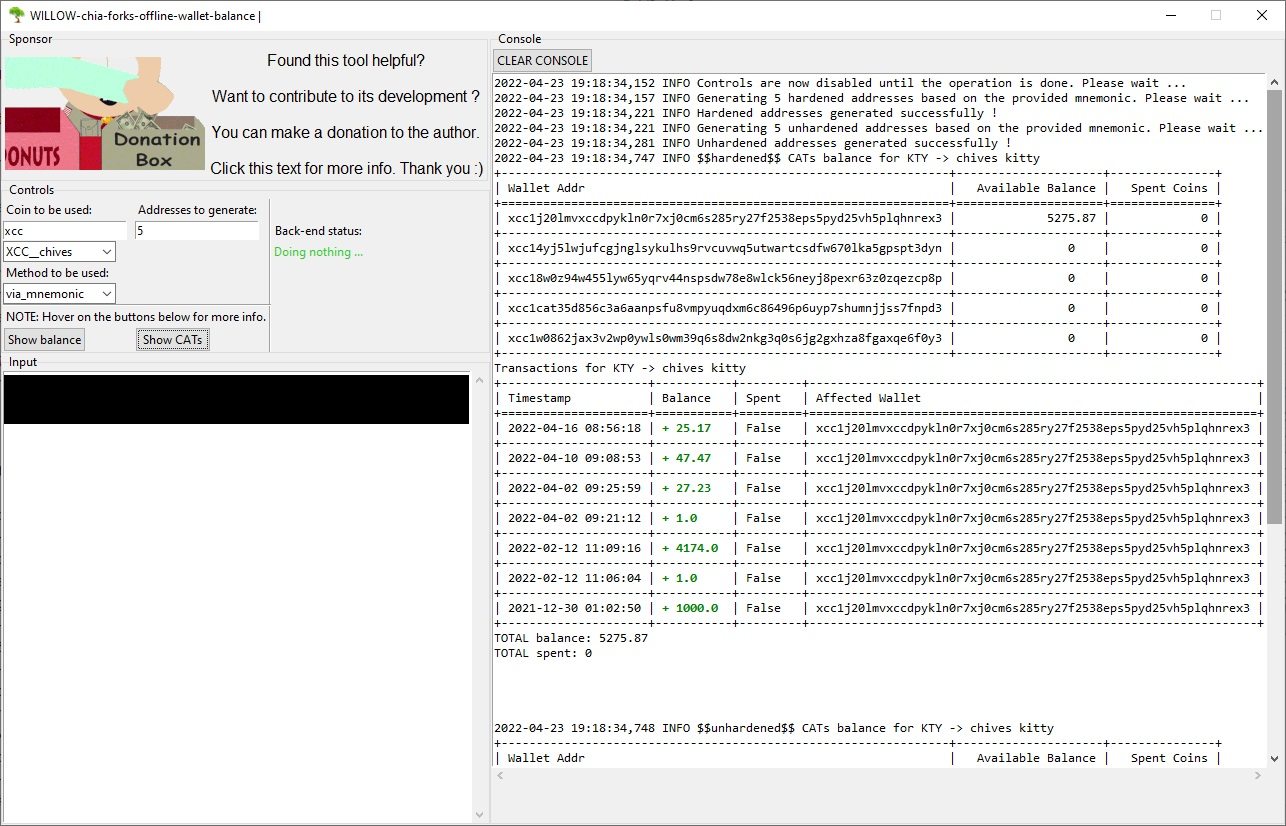
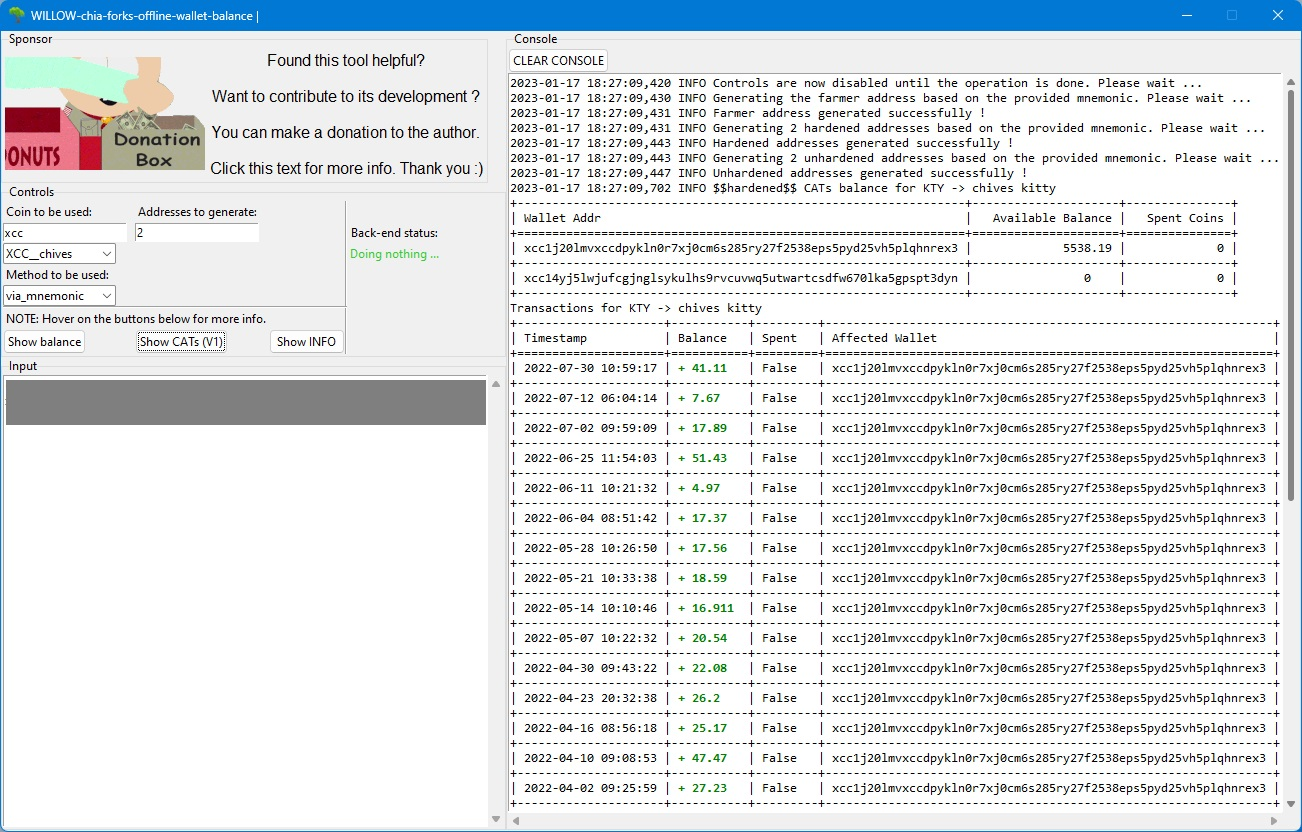
ReadMe updates

Changed region(s): [[0.0, 0.0, 1.0, 1.0], [0.2177, 0.2724, 0.3421, 0.3329]]

diff --git a/README.md b/README.md
@@ -2,13 +2,14 @@
 - The tool:
   - can check the asset's wallet balance, for x addresses of that wallet, using a mnemonic
   - can check the asset's wallet balance of single/multiple addresses, without the need of a mnemonic
-  - can check the CATs balance of a wallet, including ALL the addresses of that wallet, using a mnemonic
-  - can check the CATs balance of single/multiple addresses, without the need of a mnemonic
-  - works with both hardened & unhardened addresses, at the same time (meaning that for a given mnemonic it will check for funds the first x hardened and unhardened addresses)
-  - has a lite blockchain explorer which shows the last n transactions of a given mnemonic/ address/ set of addresses; works for both the normal and CATs wallets
+  - can check the CATs (V1) balance of a wallet, including ALL the addresses of that wallet, using a mnemonic
+  - can check the CATs (V1) balance of single/multiple addresses, without the need of a mnemonic
+  - works with both hardened & unhardened addresses, at the same time (meaning that for a given mnemonic it will check for funds in the first x hardened and unhardened addresses)
+  - has a lite blockchain explorer which shows the last n transactions of a given mnemonic/ address/ set of addresses; works for both the normal and CATs (V1) wallets
+  - can quickly show various information of a given mnemonic (the first x number of hardened/ unhardened addresses, the farmer address (aka the staking address) ...)
 
 - The tool needs:
-  - a full node database
+  - a full node database (the full node service is not mandatory)
 
 ## Contributors
 
@@ -33,9 +34,9 @@ NOTE#2: Long story short you have 3 ways to use willow in your scripts:
 
 ## WINDOWS usage - instructions
 
-1.1. Have the full node db of the coin you are about to check. As mentioned before, the full node does not need to be running.
+1.1. Have the full node database of the coin you are about to check. As mentioned before, the full node service does not need to be running.
 
-1.2. Run the compiled exe for windows and follow the instructions on screen.
+1.2. Run the windows compiled GUI and follow the instructions on screen.
 
 GUI overview:
    
@@ -43,35 +44,54 @@ GUI overview:
 
 OR
 
-2.1. Have the full node db of the coin you are about to check. As mentioned before, the full node does not need to be running.
+2.1. Have the full node db of the coin you are about to check. As mentioned before, the full node service does not need to be running.
 
-2.2. Use the compiled CLI interface you are more of a console type of person
+2.2. Use the windows compiled CLI interface
 
 2.2.1. Just launch the CLI in your favourite console with the -h switch to see the usage instructions; As of now those are:
 
 ![alt text](ReadMe_res/CLI_interface_ex.jpg?raw=true)
 
 # Usage example
-## View the "full" normal wallet balance via a mnemonic
-This requires a mnemonic as the input; full = Addresses_to_generate
+## CLI: return the "full" list of wallet addresses from a given mnemonic
+This requires a mnemonic as the input; "full" is limited by the Addresses_to_generate parameter. The output can very easily be parsed by splitting based on the "$$$ " string
+
+![alt text](ReadMe_res/CLI_List_of_addresses.jpg?raw=true)
+
+## CLI: return the last_win_time of a given mnemonic
+This requires a mnemonic as the input. The output can very easily be parsed by splitting based on the "$ $ $" string
+
+![alt text](ReadMe_res/CLI_last_win_time.jpg?raw=true)
+
+## CLI: return balance statistics
+This requires a mnemonic as the input. The output can very easily be parsed by splitting based on the "$ $" string
+
+![alt text](ReadMe_res/CLI_balance_statistics.jpg?raw=true)
+
+## GUI: View the "full" normal wallet balance via a mnemonic
+This requires a mnemonic as the input; "full" is limited by the Addresses_to_generate parameter
 
 ![alt text](ReadMe_res/normal_wallet.jpg?raw=true)
 
-## View the "full" CATs wallets balance via a mnemonic
-This requires a mnemonic as the input; full = Addresses_to_generate
+## GUI: View the "full" CATs wallet balance via a mnemonic
+This requires a mnemonic as the input; "full" is limited by the Addresses_to_generate parameter
 
 ![alt text](ReadMe_res/CATs_wallet.jpg?raw=true)
 
-## View the normal wallet balance via a single address
-This requires onlky an address of the wallet as the input.
+## GUI: View the normal wallet balance via a single address
+This requires only an address of the wallet as the input.
 
 ![alt text](ReadMe_res/normal_wallet_single_addr.jpg?raw=true)
 
-## View the CATs wallets balance via a single address
-This requires onlky an address of the wallet as the input.
+## GUI: View the CATs wallet balance via a single address
+This requires only an address of the wallet as the input.
 
 ![alt text](ReadMe_res/CATs_wallet_single_addr.jpg?raw=true)
 
+## GUI: View various mnemonic related info
+This requires a mnemonic as the input.
+
+![alt text](ReadMe_res/various_mnemonic_INFO.jpg?raw=true)
 
 # Support
 Found this project useful? Send your ❤ in any form you can 🙂. Please contact me if you donated and want to be added to the contributors list !
